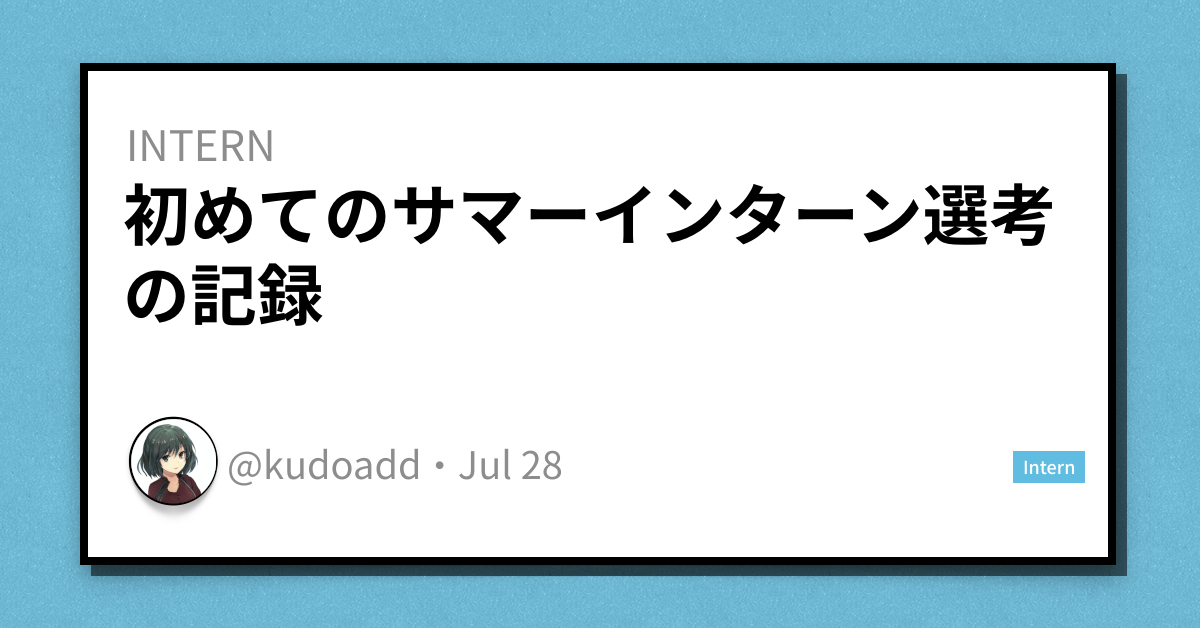
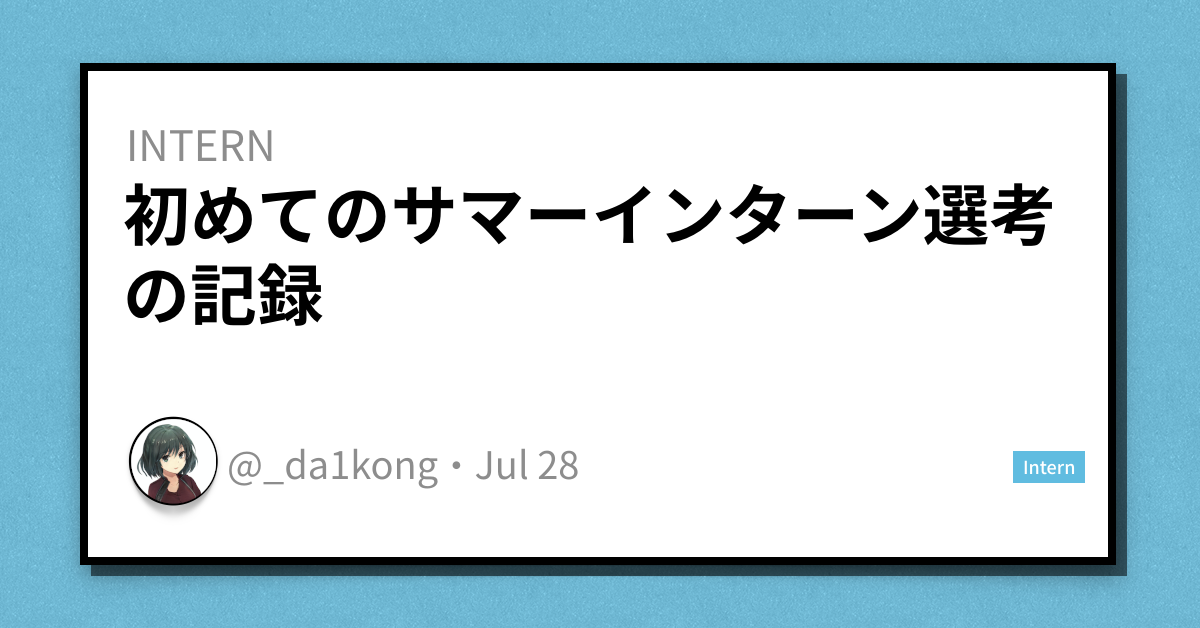
:books: 記事をフォーマットしてサムネイルを差し替え

Changed region(s): [[0.2158, 0.6959, 0.4933, 0.7866]]

diff --git a/content/posts/yumemi-intern.md b/content/posts/yumemi-intern.md
@@ -5,10 +5,10 @@ description: ""
 tags: ["intern", "yumemi", "react"]
 categories: ["intern"]
 images: ["tcard/yumemi-intern.png"]
-author: ["@kudoadd"]
+author: ["@_da1kong"]
 ---
 
-こんにちは、くどあです。
+こんにちは、だいちです。
 
 11/16(月)から 11/20(金)の 5 日間、[ゆめみ](https://www.yumemi.co.jp/)さんでフロントエンドエンジニアインターンをしてきました。
 
@@ -59,61 +59,61 @@ author: ["@kudoadd"]
 
 - **コンポーネントの切り出し**
 
-    以下はシンプルなカードですが、フィードバックを元に正方形の画像や右側のコンテンツをコンポーネント化したり、タグとそれらをまとめたタググループのコンポーネントを作成しました。
+  以下はシンプルなカードですが、フィードバックを元に正方形の画像や右側のコンテンツをコンポーネント化したり、タグとそれらをまとめたタググループのコンポーネントを作成しました。
 
-    ![スクリーンショット 2020-11-18 9.59.19](https://user-images.githubusercontent.com/45157831/99479863-57d1c600-299a-11eb-97b0-15987dbf7fd1.png)
+  ![スクリーンショット 2020-11-18 9.59.19](https://user-images.githubusercontent.com/45157831/99479863-57d1c600-299a-11eb-97b0-15987dbf7fd1.png)
 
 - **ディレクトリ管理**
 
-    - 共通の CSS プロパティを外部に外出ししました。
-        仕様変更の際は一箇所だけ変更すれば良いので、変化に強くなります。
+  - 共通の CSS プロパティを外部に外出ししました。
+    仕様変更の際は一箇所だけ変更すれば良いので、変化に強くなります。
 
-        - media-query
+    - media-query
 
-            ```typescript
-            export const size = (screenSize: string): string => {
-              if (screenSize === 'mobile') {
-                return `@media (max-width: 767px)`;
-              } else if (screenSize === 'tablet') {
-                return `@media (min-width: 768px) and (max-width: 1151px)`;
-              } else if (screenSize === 'mt') {
-                return `@media (max-width: 1151px)`;
-              } else if (screenSize === 'pc') {
-                return `@media (min-width: 1152px)`;
-              }
-            };
-            
-            export const mq = {
-              mobile: size('mobile'),
-              tablet: size('tablet'),
-              mobileTablet: size('mt'),
-              pc: size('pc'),
-            };
-            ```
+      ```typescript
+      export const size = (screenSize: string): string => {
+        if (screenSize === "mobile") {
+          return `@media (max-width: 767px)`;
+        } else if (screenSize === "tablet") {
+          return `@media (min-width: 768px) and (max-width: 1151px)`;
+        } else if (screenSize === "mt") {
+          return `@media (max-width: 1151px)`;
+        } else if (screenSize === "pc") {
+          return `@media (min-width: 1152px)`;
+        }
+      };
 
-        - max-width
+      export const mq = {
+        mobile: size("mobile"),
+        tablet: size("tablet"),
+        mobileTablet: size("mt"),
+        pc: size("pc"),
+      };
+      ```
 
-            ```typescript
-            export const width = (size: string): string => {
-              if (size === 'pc') {
-                return `max-width: 1152px;`;
-              } else if (size === `tablet`) {
-                return `max-width: 768px;`;
-              } else if (size === `mobile`) {
-                return `max-width: 375px;`;
-              }
-            };
-            
-            export const mw = {
-              pc: width('pc'),
-              tablet: width('tablet'),
-              mobile: width('mobile'),
-            }
-            ```
+    - max-width
 
-    - Template, Modules のようなまとまったコンポーネントを別のフォルダに管理しました。
+      ```typescript
+      export const width = (size: string): string => {
+        if (size === "pc") {
+          return `max-width: 1152px;`;
+        } else if (size === `tablet`) {
+          return `max-width: 768px;`;
+        } else if (size === `mobile`) {
+          return `max-width: 375px;`;
+        }
+      };
 
-        ![folder](https://user-images.githubusercontent.com/45157831/99767068-bdae8100-2b45-11eb-8811-80b1e6d4ca83.png)
+      export const mw = {
+        pc: width("pc"),
+        tablet: width("tablet"),
+        mobile: width("mobile"),
+      };
+      ```
+
+  - Template, Modules のようなまとまったコンポーネントを別のフォルダに管理しました。
+
+    ![folder](https://user-images.githubusercontent.com/45157831/99767068-bdae8100-2b45-11eb-8811-80b1e6d4ca83.png)
 
 ### 静的解析
 
@@ -130,18 +130,18 @@ author: ["@kudoadd"]
 ### テスト
 
 - 現場でもフロントはテストを書くとのことでした。
-    - ユニットテスト：Jest（主流）, ava（並列処理が強み）
-    - E2E テスト：codecept.js（自動化）
+  - ユニットテスト：Jest（主流）, ava（並列処理が強み）
+  - E2E テスト：codecept.js（自動化）
 
 ### パフォーマンス
 
 - 一番大事なことは**ユーザーを操作をいかに妨げないか**
-    - 例. リンクにホバーした時点でデータを取ってくる（[dev to](https://dev.to/)）
+  - 例. リンクにホバーした時点でデータを取ってくる（[dev to](https://dev.to/)）
 - 実務だと Lazy Loading、バンドルの分割が多い
 - 画像はボトルネックになりやすい
 - おすすめの著書
-    - [Webフロントエンド ハイパフォーマンス チューニング](https://www.amazon.co.jp/Web%E3%83%95%E3%83%AD%E3%83%B3%E3%83%88%E3%82%A8%E3%83%B3%E3%83%89-%E3%83%8F%E3%82%A4%E3%83%91%E3%83%95%E3%82%A9%E3%83%BC%E3%83%9E%E3%83%B3%E3%82%B9-%E3%83%81%E3%83%A5%E3%83%BC%E3%83%8B%E3%83%B3%E3%82%B0-%E4%B9%85%E4%BF%9D%E7%94%B0-%E5%85%89%E5%89%87/dp/4774189677)
-    - [超速! Webページ速度改善ガイド ── 使いやすさは「速さ」から始まる](https://www.amazon.co.jp/Web%E3%83%9A%E3%83%BC%E3%82%B8%E9%80%9F%E5%BA%A6%E6%94%B9%E5%96%84%E3%82%AC%E3%82%A4%E3%83%89-%E4%BD%BF%E3%81%84%E3%82%84%E3%81%99%E3%81%95%E3%81%AF%E3%80%8C%E9%80%9F%E3%81%95%E3%80%8D%E3%81%8B%E3%82%89%E5%A7%8B%E3%81%BE%E3%82%8B-WEB-PRESS-plus/dp/477419400X/ref=pd_lpo_14_t_0/358-2141100-0492308?_encoding=UTF8&pd_rd_i=477419400X&pd_rd_r=29d34a0a-29c7-43ed-85dd-d0c3ee47b6a0&pd_rd_w=X8DXq&pd_rd_wg=Q3jhU&pf_rd_p=4b55d259-ebf0-4306-905a-7762d1b93740&pf_rd_r=QEJ37MNHAPBW4T4ATKSK&psc=1&refRID=QEJ37MNHAPBW4T4ATKSK)
+  - [Web フロントエンド ハイパフォーマンス チューニング](https://www.amazon.co.jp/Web%E3%83%95%E3%83%AD%E3%83%B3%E3%83%88%E3%82%A8%E3%83%B3%E3%83%89-%E3%83%8F%E3%82%A4%E3%83%91%E3%83%95%E3%82%A9%E3%83%BC%E3%83%9E%E3%83%B3%E3%82%B9-%E3%83%81%E3%83%A5%E3%83%BC%E3%83%8B%E3%83%B3%E3%82%B0-%E4%B9%85%E4%BF%9D%E7%94%B0-%E5%85%89%E5%89%87/dp/4774189677)
+  - [超速! Web ページ速度改善ガイド ── 使いやすさは「速さ」から始まる](https://www.amazon.co.jp/Web%E3%83%9A%E3%83%BC%E3%82%B8%E9%80%9F%E5%BA%A6%E6%94%B9%E5%96%84%E3%82%AC%E3%82%A4%E3%83%89-%E4%BD%BF%E3%81%84%E3%82%84%E3%81%99%E3%81%95%E3%81%AF%E3%80%8C%E9%80%9F%E3%81%95%E3%80%8D%E3%81%8B%E3%82%89%E5%A7%8B%E3%81%BE%E3%82%8B-WEB-PRESS-plus/dp/477419400X/ref=pd_lpo_14_t_0/358-2141100-0492308?_encoding=UTF8&pd_rd_i=477419400X&pd_rd_r=29d34a0a-29c7-43ed-85dd-d0c3ee47b6a0&pd_rd_w=X8DXq&pd_rd_wg=Q3jhU&pf_rd_p=4b55d259-ebf0-4306-905a-7762d1b93740&pf_rd_r=QEJ37MNHAPBW4T4ATKSK&psc=1&refRID=QEJ37MNHAPBW4T4ATKSK)
 
 ## 感想
 

diff --git a/content/posts/treasure.md b/content/posts/treasure.md
@@ -5,10 +5,10 @@ description: "8/1, 8, 15の土曜日と8/17~28の約1ヶ月の期間、VOYAGE GR
 tags: ["intern", "treasure", "voyage group"]
 categories: ["intern"]
 images: ["tcard/treasure.png"]
-author: ["@kudoadd"]
+author: ["@_da1kong"]
 ---
 
-こんにちは、[くどあ](https://twitter.com/kudoadd)です。
+こんにちは、[だいち](https://twitter.com/_da1kong)です。
 
 8/1, 8, 15 の土曜日と 8/17~28 の約 1 ヶ月の期間、VOYAGE GROUP の Treasure というインターンに参加してきました。
 
@@ -32,7 +32,7 @@ Treasure では 3 日間という短い期間で Web 技術全般を網羅的学
 
 ![treasure2](https://kudolog.net/posts/treasure2.png)
 
-> 私たちのチームで使用した実際のKPT
+> 私たちのチームで使用した実際の KPT
 
 #### 技術検証
 
@@ -41,23 +41,23 @@ Treasure では 3 日間という短い期間で Web 技術全般を網羅的学
 技術検証といってもそこまで難しいことはしていません。実際の行ったことは使用する外部サービスの SDK やサンプルコードをローカル環境で実行し、ちゃんと動くのかを確認することです。
 これらを前もって行うことで、不安要素を少し減らして開発ができました。
 
-#### 初期段階のCI/CDの導入
+#### 初期段階の CI/CD の導入
 
 開発の初期段階に CI の導入し、静的解析や自動テストを行いました。CI は失敗を先に検知する 1 つの手段です。本番環境でバグる前にあらかじめ、先にバグを見つけることで効率的に開発ができました。
 
 ![treasure3](https://kudolog.net/posts/treasure3.png)
 
-> チームで使用していたGitHub Actions Workflows
+> チームで使用していた GitHub Actions Workflows
 
 ポイントとして感じたのは、**CI/CD の導入は開発初期にやるべき**だということです。技術検証にも共通しますが、開発は後になればなるほど切迫して心理的余裕がなくなります。開発初期に導入することは先行投資の意味が強くその利益を感じにくいですが、やっておくことが重要だと感じました。
 
 ### 相手を思いやる
 
-#### issueやPRは端的に
+#### issue や PR は端的に
 
 当たり前のことですが、チームで行う以上はメンバーを思いやりながら進めていく必要があります。私たちのチームではざっくりフロントエンドとバックエンドで分けて実装しましたが、それぞれどこをやっているのかやお互いに気づいた課題を issue ベースで共有しながら行いました。また issue や PR の書き方も<u>どういう課題があって何をしてどうしたのか</u>を端的に記述したり、関連した issue に紐づけることを学びました。
 
-#### 利用する開発者を意識したAPI設計
+#### 利用する開発者を意識した API 設計
 
 これはフロントとバックエンドでチームを分けて開発をした際に気づいたことです。API の設計はフロントとバックでベストが違うことがあります。例えば GET で記事の詳細情報を取得する API から、一緒にユーザー情報も取得したいとします。データベースが User と Post で分かれている場合、一番簡単なのは以下のレスポンスです。
 
@@ -97,7 +97,7 @@ Treasure では 3 日間という短い期間で Web 技術全般を網羅的学
 
 実際に完成した API がなくても設計がしっかりしていれば、予測して色々な作業を進められることが分かりました。そのためにも最初にある程度先を想定して固めた設計があることは重要だと感じました。
 
-## Treasureを終えて
+## Treasure を終えて
 
 Treasure はサポーターや TA の支援が厚く、技術的と精神的ともに成長できる素晴らしいインターンでした。今までの人生単位でもここまでのものは少なく、一生を通して忘れらない経験になりました。この場で学んだことをここで終わりとせずに、コンフォートゾーンを超えてより成長できるように頑張ります。ありがとうございました。
 

diff --git a/content/posts/async-nodejs.md b/content/posts/async-nodejs.md
@@ -5,7 +5,7 @@ description: "JavaSctipt 特有の非同期処理でのメモです。"
 categories: ["development"]
 tags: ["javascript", "async"]
 images: ["tcard/async-nodejs.png"]
-author: ["@kudoadd"]
+author: ["@_da1kong"]
 ---
 
 JavaSctipt 特有の非同期処理でのメモです。
@@ -17,7 +17,7 @@ JavaSctipt 特有の非同期処理でのメモです。
 
 ```json
 // data/products.json
-[{"title":"hoge"},{"title":"hgoe"}] 
+[{ "title": "hoge" }, { "title": "hgoe" }]
 ```
 
 ```javascript
@@ -29,19 +29,19 @@ module.exports = class Product {
   constructor(t) {
     this.title = t;
   }
-  
+
   static fetchAll(cb) {
     const p = path.join(
       path.dirname(process.mainModule.filename),
-      "data", 
+      "data",
       "products.json"
     );
     fs.readFile(p, (err, fileContent) => {
-       if (err) {
-         return [];
-       }
-       return JSON.parse(fileContent);
-     });
+      if (err) {
+        return [];
+      }
+      return JSON.parse(fileContent);
+    });
   }
 };
 ```
@@ -51,14 +51,14 @@ module.exports = class Product {
 ```javascript
 // controllers
 exports.getProducts = (req, res, next) => {
-  Products.fetchAll(products => {
+  Products.fetchAll((products) => {
     res.render("shop", {
       prods: products,
       pageTitle: "Shop",
       path: "/",
       hasProducts: products.length > 0,
       activeShop: true,
-      productCSS: true
+      productCSS: true,
     });
   });
 };
@@ -71,7 +71,7 @@ exports.getProducts = (req, res, next) => {
 static fetchAll() {
     const p = path.join(
       path.dirname(process.mainModule.filename),
-      "data", 
+      "data",
       "products.json"
     );
   	// ①：ここが非同期処理なので処理が終わる前に通過してundefinedになる
@@ -85,7 +85,7 @@ static fetchAll() {
   }
 ```
 
-データを読み込む処理①は条件内で値を返しますが、関数自体が値を返している訳ではありません。node.js では非同期通信なので①が終了して関数が値を返す前に、controller が view にデータを渡す処理が実行されてしまいます。
+データを読み込む処理 ① は条件内で値を返しますが、関数自体が値を返している訳ではありません。node.js では非同期通信なので ① が終了して関数が値を返す前に、controller が view にデータを渡す処理が実行されてしまいます。
 
 ## 解決案
 
@@ -103,7 +103,7 @@ fetchAll の引数に callback 関数を受け取る方法です。
 static fetchAll(cb) {
     const p = path.join(
       path.dirname(process.mainModule.filename),
-      "data", 
+      "data",
       "products.json"
     );
     fs.readFile(p, (err, fileContent) => {
@@ -133,9 +133,9 @@ static async fetchAll() {
 ```javascript
 // controller
 exports.getProducts = async (req, res) => {
-	const products = await Product.fetchAll();
-	res.render('shop', { prods: products, docTitle: 'Shop', path: '/' });
-}
+  const products = await Product.fetchAll();
+  res.render("shop", { prods: products, docTitle: "Shop", path: "/" });
+};
 ```
 
 可読性が高いので、Nodejs のバージョンが対応していれば現在はこちらを使います。
@@ -148,6 +148,5 @@ exports.getProducts = async (req, res) => {
 ## 参考文献
 
 - [How do I return the response from an asynchronous call?](https://stackoverflow.com/questions/14220321/how-do-i-return-the-response-from-an-asynchronous-call)
-- [ラーメンで理解するasync/await](https://qiita.com/7tsuno/items/6d5a27ffe9143b35defe)
-- [Promiseの使い方、それに代わるasync/awaitの使い方](https://qiita.com/suin/items/97041d3e0691c12f4974)
-
+- [ラーメンで理解する async/await](https://qiita.com/7tsuno/items/6d5a27ffe9143b35defe)
+- [Promise の使い方、それに代わる async/await の使い方](https://qiita.com/suin/items/97041d3e0691c12f4974)

diff --git a/content/posts/sort.md b/content/posts/sort.md
@@ -5,7 +5,7 @@ description: "JavaSctipt 特有の非同期処理でのメモです。"
 categories: ["development"]
 tags: ["algorithm", "sort"]
 images: ["tcard/sort.png"]
-author: ["@kudoadd"]
+author: ["@_da1kong"]
 ---
 
 以前の面接のコーディング試験で配列ソートの課題がでました。
@@ -18,7 +18,7 @@ author: ["@kudoadd"]
 配列の一番左の値を取ってきて右隣のものと比較し、右隣の方が小さければ交換します。
 この作業を配列の長さ分行えば、全てソートされるので計算量は O(n^2)かかります。
 
-### Pythonでの実装例
+### Python での実装例
 
 ```python
 def bubble_sort(A):
@@ -38,7 +38,7 @@ sorted_A = bubble_sort(A) # [1,2,3,4,5]
 
 ソート済みの区間に対して未ソート区間から数を差し込んでいきます。
 
-### Pythonでの実装例
+### Python での実装例
 
 ```python
 def insertion_sort(A):
@@ -60,7 +60,7 @@ def insertion_sort(A):
 
 それぞれの区間から最小値を見つけて順番に交換していくソートです。割と直感的なアルゴリズムで分かりやすいです。
 
-### Pythonでの実装例
+### Python での実装例
 
 ```python
 n = int(input())

diff --git a/content/posts/dotenv-js.md b/content/posts/dotenv-js.md
@@ -2,15 +2,15 @@
 title: Nodejsで環境変数を設定できるdotenvの紹介
 date: 2020-05-26T09:43:00+09:00
 description: "Node.js で API を作っていた時に Production Key や DB のパスワードをハードコーディングして GitHub に上げてしまうのは気が引けた。調べてみると Nodejs には環境変数を簡単に設定できるdotenvというモジュールがあったので使い方のメモです。"
-categories: ["development "]
+categories: ["development"]
 tags: ["dotenv"]
 images: ["tcard/dotenv-js.png"]
-author: ["@kudoadd"]
+author: ["@_da1kong"]
 ---
 
 Node.js で API を作っていた時に Production Key や DB のパスワードをハードコーディングして GitHub に上げるのセキュリティ的に良くありません。調べてみると Nodejs には環境変数を簡単に設定できる**dotenv**というモジュールがありました。今回はその使い方のメモです。
 
-## dotenvの使い方
+## dotenv の使い方
 
 `dotenv`をインストールするだけで使用できます。
 

diff --git a/content/posts/react-intersection-observer.md b/content/posts/react-intersection-observer.md
@@ -5,7 +5,7 @@ description: "react-intersection-observerとは画面の要素がビューポー
 categories: ["development"]
 tags: ["react", "styled-component", "react-intersection-observer"]
 images: ["tcard/react-intersection-observer.png"]
-author: ["@kudoadd"]
+author: ["@_da1kong"]
 ---
 
 ## はじめに
@@ -96,7 +96,8 @@ interface Props {
 // inViewがtrueになると透明度が0.5から1になり、50px下から移動してくる
 const Section = styled.section<Props>`
   transition: all 1s ease;
-  transform: ${(props) => (props.inView ? "translateY(0)" : "translateY(50px)")};
+  transform: ${(props) =>
+    props.inView ? "translateY(0)" : "translateY(50px)"};
   opacity: ${(props) => (props.inView ? 1 : 0.5)};
 `;
 ```
